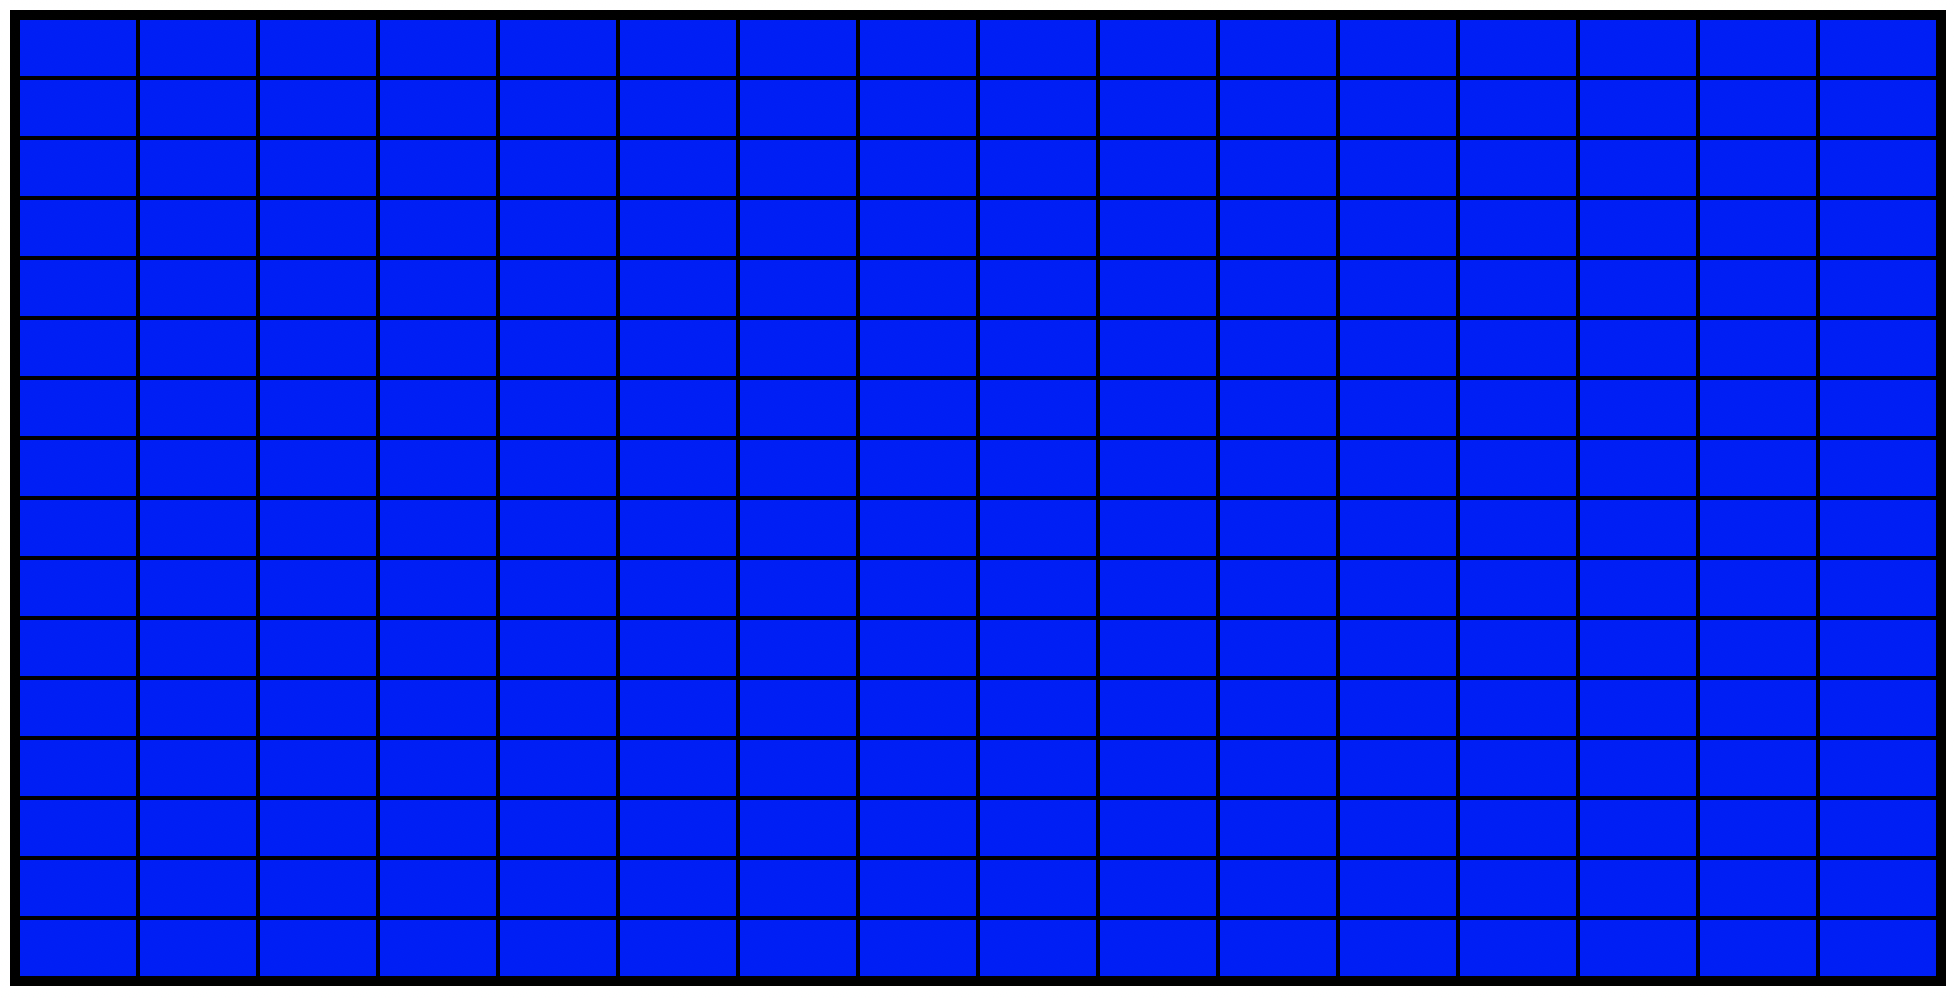
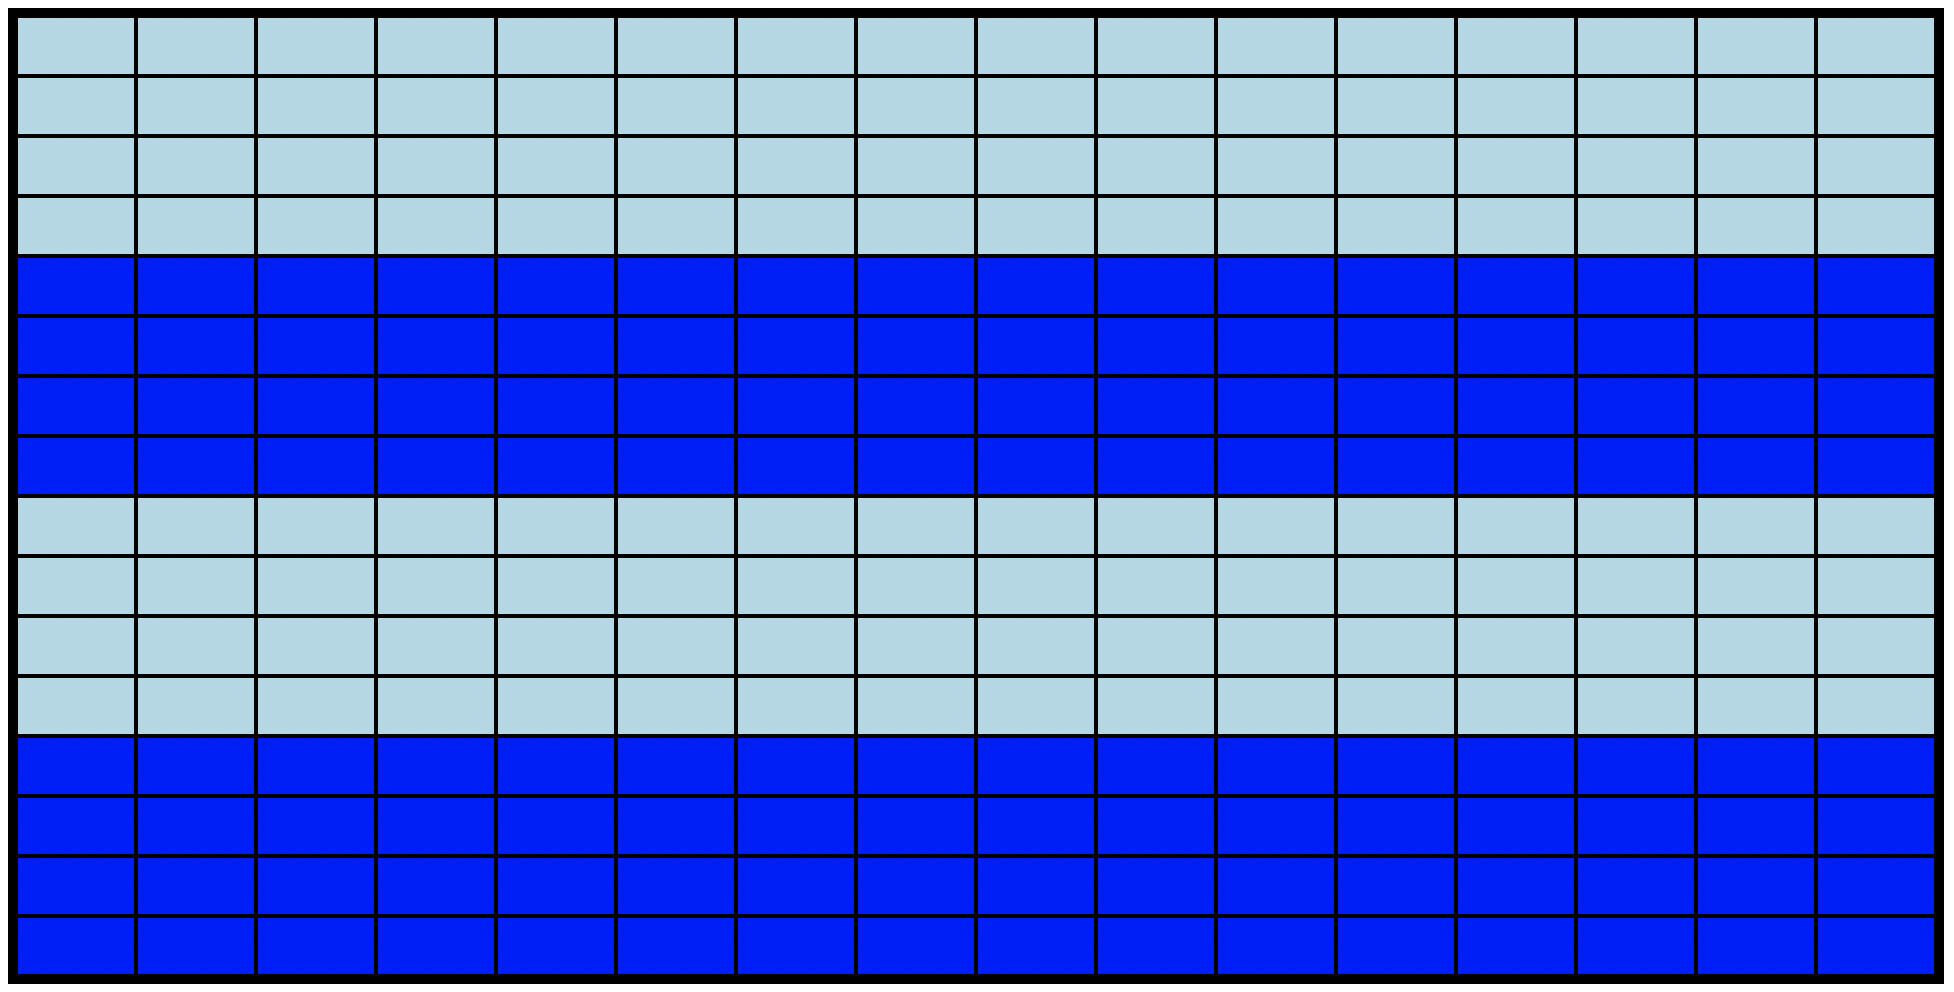
Nowe wyswietlanie patternow

diff --git a/wizualizacja_danych/RIS_pattern_view_IDorHEX.py b/wizualizacja_danych/RIS_pattern_view_IDorHEX.py
@@ -1,5 +1,6 @@
 import tkinter as tk
 from tkinter import ttk
+from tkinter import filedialog
 from PIL import Image, ImageDraw
 import json
 
@@ -32,29 +33,75 @@ def hex_to_bin(hex_string):
     bin_string = ''.join(format(int(c, 16),'04b') for c in hex_string)
     return bin_string
 
-# Funkcja rysująca GUI na podstawie ciągu binarnego
-def generate_image(binary_string):
-    window = tk.Tk()
-    window.title("Hex to Binary Grid")
+def save_image(image):
+    # Otwórz okno dialogowe do wyboru miejsca zapisu
+    file_path = filedialog.asksaveasfilename(defaultextension=".png", filetypes=[("PNG files", "*.png")])
+    if file_path:
+        image.save(file_path)
+        print(f"Obraz zapisano jako: {file_path}")
 
+# Funkcja rysująca GUI na podstawie ciągu binarnego i zapisująca obraz
+def generate_image(binary_string):
     grid_size = 16
     cell_size = 30
     outer_margin = 10
     inner_margin = 4
-    
-    outer_frame = tk.Frame(window, bg="white", padx=outer_margin, pady=outer_margin)  # Zewnętrzna ramka z czarnym tłem i marginesami
+
+    # Tworzenie obrazu
+    img_size = (
+        grid_size * cell_size * 2 + 2 * (outer_margin + inner_margin),
+        grid_size * cell_size + 2 * (outer_margin + inner_margin)
+    )
+    image = Image.new("RGB", img_size, "white")
+    draw = ImageDraw.Draw(image)
+
+    # Rysowanie czarnej otoczki
+    black_rect_start = (outer_margin, outer_margin)
+    black_rect_end = (
+        img_size[0] - outer_margin,
+        img_size[1] - outer_margin
+    )
+    draw.rectangle([black_rect_start, black_rect_end], fill="black")
+
+    # Rysowanie siatki na białym tle
+    grid_start_x = outer_margin + inner_margin
+    grid_start_y = outer_margin + inner_margin
+
+    for i in range(256):
+        row = i // grid_size
+        col = i % grid_size
+        color = "blue" if binary_string[i] == '1' else "lightblue"
+
+        # Współrzędne komórki w obrazie
+        x1 = grid_start_x + col * cell_size * 2
+        y1 = grid_start_y + row * cell_size
+        x2 = x1 + cell_size * 2
+        y2 = y1 + cell_size
+        draw.rectangle([x1, y1, x2, y2], fill=color, outline="black")
+
+    # Tworzenie okna GUI
+    window = tk.Tk()
+    window.title("Hex to Binary Grid")
+
+    outer_frame = tk.Frame(window, bg="white", padx=outer_margin, pady=outer_margin)
     outer_frame.pack()
 
-    inner_frame = tk.Frame(outer_frame, bg="black", padx=inner_margin, pady=inner_margin)  # Wewnętrzna ramka
+    inner_frame = tk.Frame(outer_frame, bg="black", padx=inner_margin, pady=inner_margin)
     inner_frame.pack()
 
     for i in range(256):
         row = i // grid_size
         col = i % grid_size
         color = "blue" if binary_string[i] == '1' else "lightblue"
+
+        # Rysowanie w GUI
         cell = tk.Frame(inner_frame, width=cell_size*2, height=cell_size, bg=color, highlightbackground="black", highlightthickness=1)
         cell.grid(row=row, column=col)
-    
+
+    # Dodanie przycisku zapisu obrazu
+    save_button = ttk.Button(window, text="Zapisz obraz jako PNG", command=lambda: save_image(image))
+    save_button.pack(pady=(10, 0))
+
     window.mainloop()
 
 def on_convert():
@@ -76,12 +123,12 @@ root.title("Hex to Bin Image Converter")
 
 # Etykieta i pole wprowadzania
 label = ttk.Label(root, text="Podaj ID patternu lub HEX:")
-label.pack(pady=(10, 5))  # Zwiększone pady na górze i dołu
+label.pack(pady=(10, 5))
 entry = ttk.Entry(root)
-entry.pack(pady=(0, 5))  # Zwiększony pady na dole
+entry.pack(pady=(0, 5))
 
 # Przycisk do konwersji
 convert_button = ttk.Button(root, text="Konwertuj i pokaż obraz", command=on_convert)
-convert_button.pack(pady=(0, 10))  # Zwiększony pady na dole
+convert_button.pack(pady=(0, 10))
 
 root.mainloop()

diff --git a/wizualizacja_danych/patterny_artykuł/gen_kilku_patternow.py b/wizualizacja_danych/patterny_artykuł/gen_kilku_patternow.py
@@ -1,39 +1,57 @@
 import matplotlib.pyplot as plt
 import matplotlib.image as mpimg
 
-def display_images(paths):
+def display_images(paths, save_path=None):
     num_images = len(paths)
-    
-    fig, axs = plt.subplots(3, 2, figsize=(10, 10))
-    
-    for i in range(3):
-        for j in range(2):
-            if (i * 2 + j) < num_images:
-                img = mpimg.imread(paths[i * 2 + j])
+    rows = 2  # Liczba wierszy
+    cols = 3  # Liczba kolumn
+
+    fig, axs = plt.subplots(rows, cols, figsize=(15, 10))
+
+    for i in range(rows):
+        for j in range(cols):
+            img_index = i * cols + j
+            if img_index < num_images:
+                img = mpimg.imread(paths[img_index])
                 axs[i, j].imshow(img)
                 axs[i, j].axis('off')
-                axs[i, j].set_title(f"Pattern {i * 2 + j + 1}")  # Dodanie podpisu
-                
+                axs[i, j].set_title(f"Pattern {img_index + 1}", fontsize=12)  # Dodanie podpisu
+            else:
+                axs[i, j].axis('off')  # Ukrycie pustych osi
+
+    # Dodanie legendy na dole
     legend_labels = {"ON": "blue", "OFF": "lightblue"}
     legend_handles = [plt.Rectangle((0, 0), 1, 1, color=color, edgecolor='black', linewidth=1) for color in legend_labels.values()]
     legend_texts = list(legend_labels.keys())
-    
-    fig.legend(legend_handles, legend_texts, loc='lower center', ncol=2, fontsize='large', title='Legend')  # Dodanie legendy
-    
-    plt.subplots_adjust(wspace=0.05, hspace=0.3)  # Zmniejszenie odstępów między obrazami
-    #plt.savefig(f'wizu_patternow_ENG.jpg', format='jpg', bbox_inches='tight')
+
+    fig.legend(
+        legend_handles,
+        legend_texts,
+        loc='lower center',
+        ncol=2,
+        fontsize='large',
+        title='Legend'
+    )
+
+    # Dostosowanie odstępów między obrazami
+    plt.subplots_adjust(wspace=0.01, hspace=0.01, bottom=0.01)
+
+    # Zapis figury, jeśli podano ścieżkę
+    if save_path:
+        plt.savefig(save_path, format='png', bbox_inches='tight')
+
     plt.show()
 
 # Przykładowe ścieżki do zdjęć
 image_paths = [
-    "1_pattern.png",
-    "2_pattern.png",
-    "3_pattern.png",
-    "4_pattern.png",
-    "5_pattern.png",
-    "6_pattern.png"
+    r"C:\Users\Paweł\Desktop\RIS\Ris\Python_RIS\wizualizacja_danych\patterny_artykuł\1_pattern.png",
+    r"C:\Users\Paweł\Desktop\RIS\Ris\Python_RIS\wizualizacja_danych\patterny_artykuł\2_pattern.png",
+    r"C:\Users\Paweł\Desktop\RIS\Ris\Python_RIS\wizualizacja_danych\patterny_artykuł\3_pattern.png",
+    r"C:\Users\Paweł\Desktop\RIS\Ris\Python_RIS\wizualizacja_danych\patterny_artykuł\4_pattern.png",
+    r"C:\Users\Paweł\Desktop\RIS\Ris\Python_RIS\wizualizacja_danych\patterny_artykuł\5_pattern.png",
+    r"C:\Users\Paweł\Desktop\RIS\Ris\Python_RIS\wizualizacja_danych\patterny_artykuł\6_pattern.png"
 ]
 
-# Wyświetlanie zdjęć
-display_images(image_paths)
-
+# Wyświetlanie zdjęć i zapis figury
+save_path = r"C:\Users\Paweł\Desktop\RIS\Ris\Python_RIS\wizualizacja_danych\patterny_artykuł\combined_patterns.png"
+display_images(image_paths, save_path=save_path)
